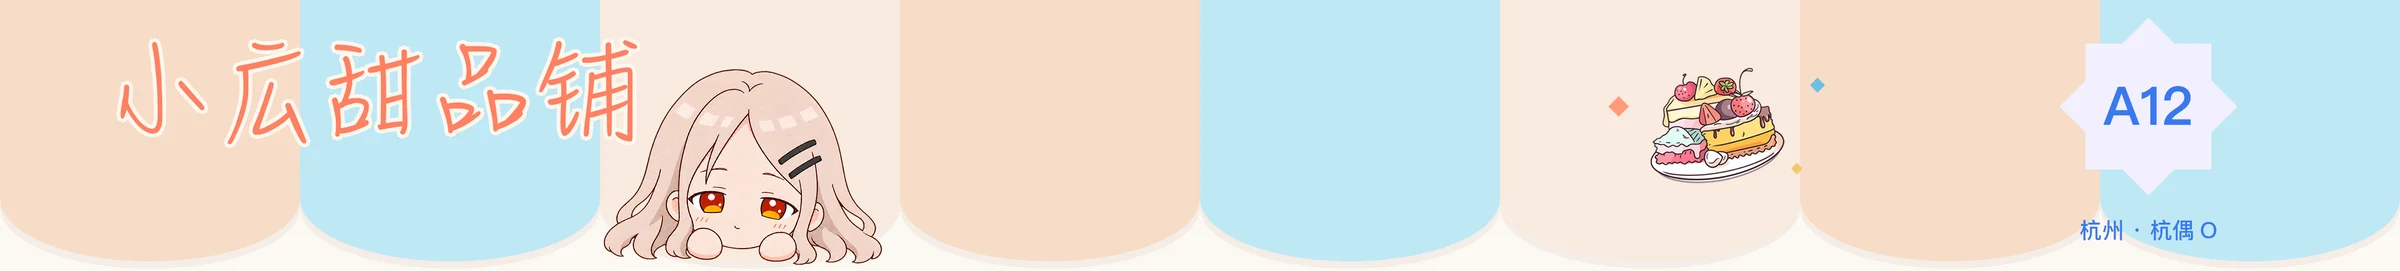
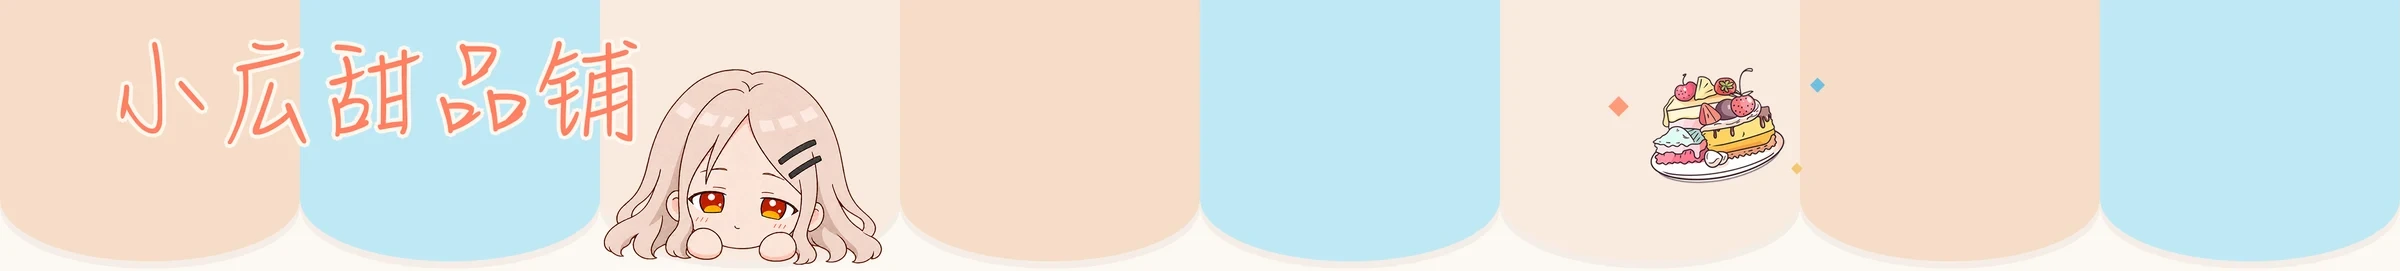
点单页从场次配置读摊位号和展会名，支持补传上一场的订单
横幅换成去掉摊位号徽章的底图，徽章和展会名改成按配置叠字。
本机存储键改用 storage-keys.js，打开时迁移旧 hz-a12 键。

Changed region(s): [[0.8438, 0.0886, 0.9375, 0.7085], [0.8438, 0.797, 0.9375, 0.8856]]

diff --git a/web/app.js b/web/app.js
@@ -1,4 +1,5 @@
-import { products, productById } from "./catalog.js";
+import { event, products, productById } from "./catalog.js";
+import { keysFor, migrateLegacy, otherEventLogKeys } from "./storage-keys.js";
 
 const $ = (sel) => document.querySelector(sel);
 const yuan = (n) => `¥${n}`;
@@ -23,11 +24,18 @@ const store = {
   },
 };
 
-const KEY_QR = "hz-a12:qr";
-const KEY_STOCK = "hz-a12:stock-server"; // 最近一次从服务器拿到的库存，断网时照它渲染
-const KEY_LOG = "hz-a12:log";
-const KEY_DEVICE = "hz-a12:device";
-const KEY_TOKEN = "hz-a12:admin-token";
+// 旧版的 hz-a12: 键搬到新键（只搬一次）。要在下面读取本机数据之前做。
+try {
+  migrateLegacy(localStorage);
+} catch {
+  /* 存储不可用就算了 */
+}
+const KEYS = keysFor(event.id);
+const KEY_QR = KEYS.qr;
+const KEY_STOCK = KEYS.stock; // 最近一次从服务器拿到的库存，断网时照它渲染
+const KEY_LOG = KEYS.log;
+const KEY_DEVICE = KEYS.device;
+const KEY_TOKEN = KEYS.token;
 
 let pendingReload = false;
 
@@ -345,8 +353,9 @@ function newOrderId() {
 }
 
 // 旧版本记录（items 为 [id, qty]、没有订单号）按当前菜单补全，之后照常上传
-function readLog() {
-  const log = store.get(KEY_LOG, []);
+// key：默认是当前场次；补传上一场时传别的场次的键
+function readLog(key = KEY_LOG) {
+  const log = store.get(key, []);
   let changed = false;
   const out = log.map((o) => {
     if (o.id && o.items.every((it) => !Array.isArray(it))) return o;
@@ -357,7 +366,7 @@ function readLog() {
       .filter((it) => it.id && it.name);
     return { id: o.id || newOrderId(), t: o.t, device: o.device || deviceId(), total: items.reduce((s, it) => s + it.price * it.qty, 0), items, synced: !!o.synced };
   });
-  if (changed) store.set(KEY_LOG, out);
+  if (changed) store.set(key, out);
   return out;
 }
 
@@ -375,17 +384,17 @@ function logOrder() {
 }
 
 // 把上传结果写回本机记录（重新读一次，避免覆盖上传期间新下的单）
-function markOrders(updates) {
-  const log = readLog();
+function markOrders(updates, key = KEY_LOG) {
+  const log = readLog(key);
   for (const o of log) if (updates.has(o.id)) Object.assign(o, updates.get(o.id));
-  store.set(KEY_LOG, log);
+  store.set(key, log);
 }
 
 let syncing = false;
 let lastSyncError = "";
-async function syncOrders() {
+async function syncOrders(key = KEY_LOG) {
   if (syncing || !navigator.onLine) return;
-  const pending = readLog().filter((o) => !o.synced && !o.rejected);
+  const pending = readLog(key).filter((o) => !o.synced && !o.rejected);
   if (!pending.length) return;
   syncing = true;
   const updates = new Map();
@@ -412,7 +421,7 @@ async function syncOrders() {
   } catch (e) {
     lastSyncError = navigator.onLine ? "服务器暂时连不上，稍后自动重试" : "当前没有网络，联网后自动上传";
   } finally {
-    if (updates.size) markOrders(updates);
+    if (updates.size) markOrders(updates, key);
     syncing = false;
     // 标记已上传和换成服务器扣过的库存要一起做，否则这几单会被扣两次或漏扣
     if (latestStock) setServerStock(latestStock);
@@ -441,6 +450,25 @@ function renderStats() {
     本机编号 <b>${deviceId()}</b> · 已上传 ${synced} 单${pending ? ` · <b>待上传 ${pending} 单</b>` : ""}${rejected ? ` · 被拒收 ${rejected} 单` : ""}
     ${pending && lastSyncError ? `<br><small>${lastSyncError}</small>` : ""}`;
   $("#btn-sync").hidden = !pending;
+  renderOtherEvents();
+}
+
+// 换了场次后，本机上一场还有没传上去的单：提示并提供补传
+function otherPending() {
+  return otherEventLogKeys(localStorage, event.id)
+    .map((key) => ({ key, n: readLog(key).filter((o) => !o.synced && !o.rejected).length }))
+    .filter((x) => x.n);
+}
+
+function renderOtherEvents() {
+  const n = otherPending().reduce((s, x) => s + x.n, 0);
+  $("#admin-other").hidden = !n;
+  $("#admin-other-text").textContent = n ? `上一场还有 ${n} 单没上传` : "";
+}
+
+async function syncOtherEvents() {
+  for (const { key } of otherPending()) await syncOrders(key);
+  renderStats();
 }
 
 function downloadCsv(csv, name) {
@@ -459,7 +487,7 @@ function exportCsv() {
     const time = new Date(o.t).toLocaleString("zh-CN", { hour12: false });
     for (const it of o.items) rows.push([time, it.shop, it.name, it.price, it.qty, it.price * it.qty, o.synced ? "是" : "否"]);
   }
-  downloadCsv("" + rows.map((r) => r.map(esc).join(",")).join("\n"), `A12-杭偶O-本机记录-${new Date().toISOString().slice(0, 10)}.csv`);
+  downloadCsv("" + rows.map((r) => r.map(esc).join(",")).join("\n"), `${event.booth}-${event.name}-本机记录-${new Date().toISOString().slice(0, 10)}.csv`);
 }
 
 // ---------- 服务器汇总（需要管理口令，口令只存在这台设备上） ----------
@@ -496,7 +524,7 @@ async function showServerSummary() {
 async function exportServerCsv() {
   try {
     const csv = await (await adminFetch("orders.csv")).text();
-    downloadCsv(csv, `A12-杭偶O-服务器订单-${new Date().toISOString().slice(0, 10)}.csv`);
+    downloadCsv(csv, `${event.booth}-${event.name}-服务器订单-${new Date().toISOString().slice(0, 10)}.csv`);
   } catch (e) {
     $("#server-stats").innerHTML = `<p class="admin-note error">${e.message}</p>`;
   }
@@ -673,7 +701,8 @@ $("#btn-clear").addEventListener("click", () => {
 });
 $("#cart-toggle").addEventListener("click", () => document.body.classList.toggle("cart-open"));
 $("#btn-export").addEventListener("click", exportCsv);
-$("#btn-sync").addEventListener("click", syncOrders);
+$("#btn-sync").addEventListener("click", () => syncOrders());
+$("#btn-sync-other").addEventListener("click", syncOtherEvents);
 $("#btn-server-summary").addEventListener("click", showServerSummary);
 $("#btn-server-csv").addEventListener("click", exportServerCsv);
 $("#btn-server-archive").addEventListener("click", archiveServer);
@@ -692,6 +721,12 @@ document.addEventListener("keydown", (e) => {
     e.target.blur();
   }
 });
+// 页面标题和横幅上的摊位号、展会名都来自这场的配置
+document.title = `小広甜品铺 · ${event.booth}`;
+$("#banner-booth").textContent = event.booth;
+$("#banner-place").textContent = `${event.city} · ${event.name}`;
+$("#banner img").alt = `小広甜品铺 · ${event.booth} · ${event.city} · ${event.name}`;
+
 bindLongPress($("#banner"), 1500, openAdmin);
 
 // 双指缩放 / 双击放大会打断顾客操作，统一屏蔽

diff --git a/web/index.html b/web/index.html
@@ -8,14 +8,18 @@
   <meta name="apple-mobile-web-app-status-bar-style" content="default">
   <meta name="apple-mobile-web-app-title" content="小広点单">
   <meta name="theme-color" content="#fbf4ec">
-  <title>小広甜品铺 · A12</title>
+  <title>小広甜品铺</title>
   <link rel="manifest" href="manifest.webmanifest">
   <link rel="apple-touch-icon" href="assets/apple-touch-icon.png">
   <link rel="stylesheet" href="styles.css">
 </head>
 <body>
   <header class="banner" id="banner">
-    <img src="assets/banner-sweet.webp" alt="小広甜品铺 · A12 · 杭州 · 杭偶O" draggable="false">
+    <img src="assets/banner-sweet.webp" alt="小広甜品铺" draggable="false">
+    <div class="banner-tag" aria-hidden="true">
+      <span class="banner-booth" id="banner-booth"></span>
+      <span class="banner-place" id="banner-place"></span>
+    </div>
   </header>
 
   <main class="layout">
@@ -111,6 +115,11 @@
         <h3>本机记录</h3>
         <p class="admin-note">顾客点「我付好啦」时记一笔，先存在这台设备上，联网时自动上传到服务器。</p>
         <p class="admin-sync" id="admin-sync"></p>
+        <p class="admin-sync admin-other" id="admin-other" hidden>
+          <span class="sync-dot is-pending"></span>
+          <b id="admin-other-text"></b>
+          <button type="button" class="link-btn" id="btn-sync-other">补传</button>
+        </p>
         <div class="admin-stats" id="admin-stats"></div>
         <div class="admin-btns">
           <button type="button" class="btn-ghost" id="btn-sync" hidden>立即上传</button>

diff --git a/web/styles.css b/web/styles.css
@@ -48,16 +48,49 @@ img { display: block; }
 
 /* ---------- 顶部 ---------- */
 .banner {
+  /* 横幅原图 8.86:1；矮屏时最多占 15% 高度，居中裁切 */
+  --banner-h: min(calc(100vw / 8.86), 15dvh);
+  position: relative;
   flex: none;
   background: var(--cream);
   line-height: 0;
 }
 .banner img {
   width: 100%;
-  /* 横幅原图 8.86:1；矮屏时最多占 15% 高度，居中裁切 */
-  height: min(calc(100vw / 8.86), 15dvh);
+  height: var(--banner-h);
   object-fit: cover;
   object-position: center 72%;
+}
+
+/* 横幅右侧的摊位号徽章和展会名，按原横幅的位置和比例画（八角星中心在宽度 89.5%） */
+.banner-tag {
+  position: absolute;
+  inset: 0 auto 0 89.5%;
+  display: flex;
+  flex-direction: column;
+  align-items: center;
+  transform: translateX(-50%);
+  pointer-events: none;
+  line-height: 1;
+}
+.banner-booth {
+  display: grid;
+  place-items: center;
+  width: calc(var(--banner-h) * 0.64);
+  height: calc(var(--banner-h) * 0.64);
+  margin-top: calc(var(--banner-h) * 0.07);
+  background: #f2f0fe;
+  clip-path: polygon(50% 0%, 64.6% 14.6%, 85.4% 14.6%, 85.4% 35.4%, 100% 50%, 85.4% 64.6%, 85.4% 85.4%, 64.6% 85.4%, 50% 100%, 35.4% 85.4%, 14.6% 85.4%, 14.6% 64.6%, 0% 50%, 14.6% 35.4%, 14.6% 14.6%, 35.4% 14.6%);
+  color: #3a78f0;
+  font-weight: 700;
+  font-size: calc(var(--banner-h) * 0.19);
+  letter-spacing: 0.01em;
+}
+.banner-place {
+  margin-top: calc(var(--banner-h) * 0.09);
+  color: #3a78f0;
+  font-size: calc(var(--banner-h) * 0.075);
+  white-space: nowrap;
 }
 
 /* ---------- 主区域 ---------- */
